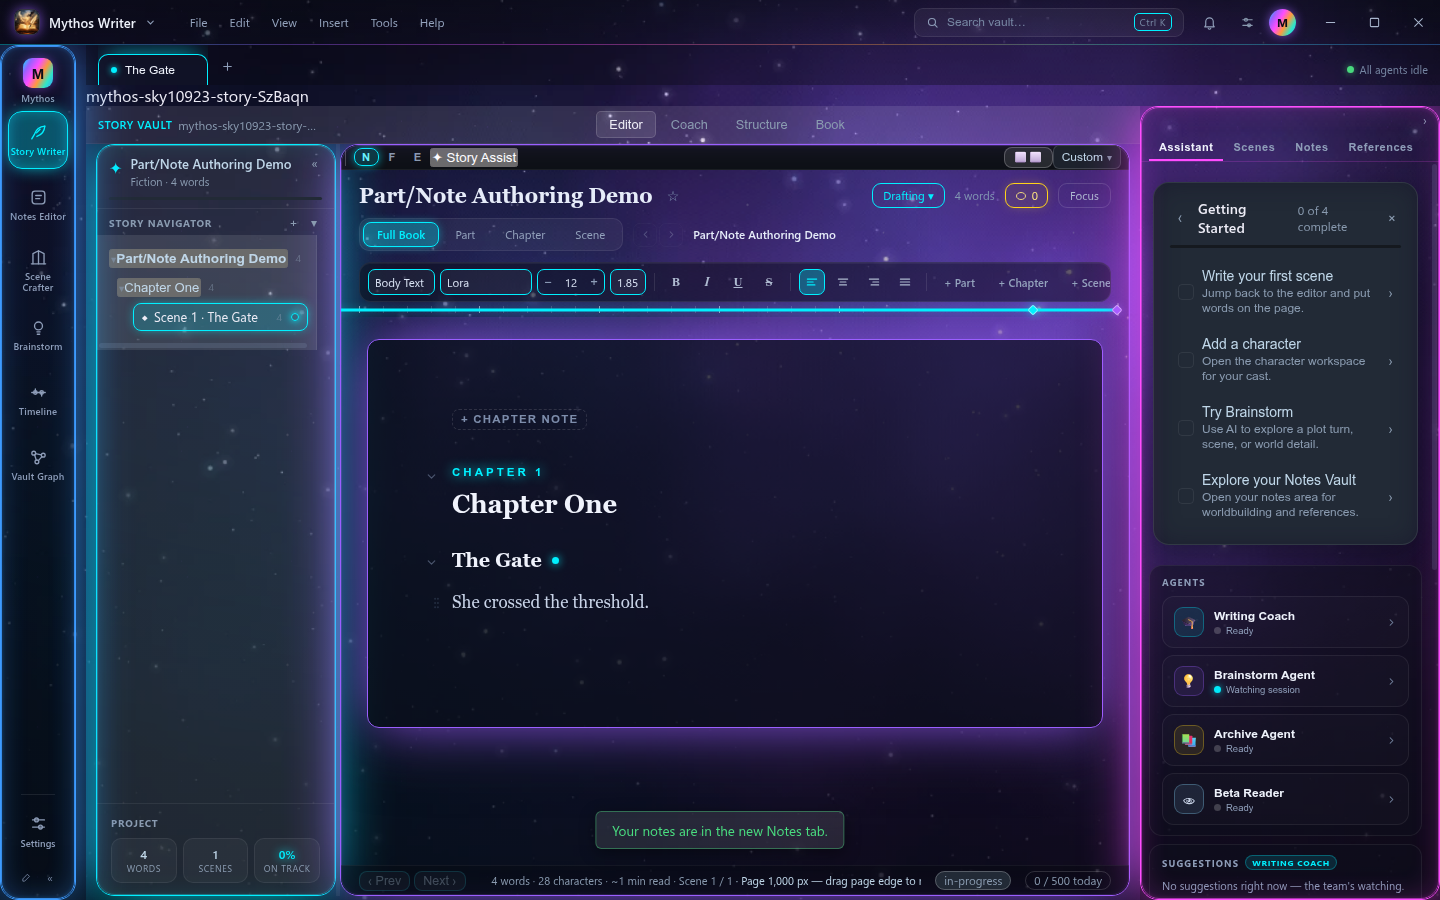
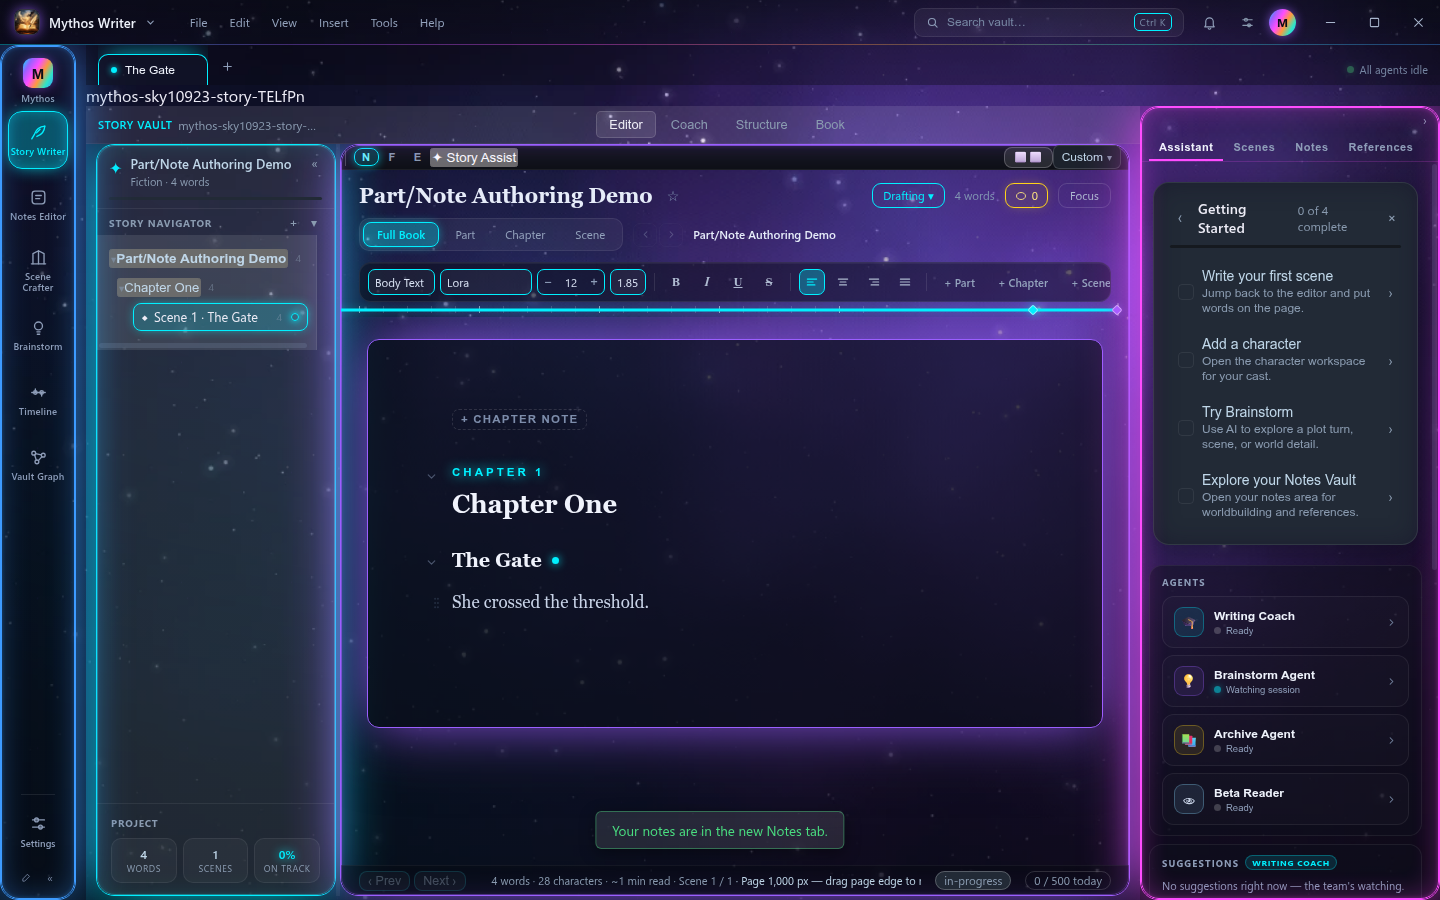
chore(SKY-10923): commit capture spec, drop debug-only screenshots
The capture spec used to generate the PR-evidence screenshots wasn't
checked in yet — commit it so the screenshots are reproducible, and
drop the two ad-hoc debug frames that aren't part of the evidence set.

Changed region(s): [[0.7812, 0.9956, 1.0, 1.0], [0.1875, 0.0933, 0.2188, 0.1244]]

diff --git a/e2e/capture-sky10923-part-note-authoring.spec.ts b/e2e/capture-sky10923-part-note-authoring.spec.ts
@@ -1,0 +1,122 @@
+/**
+ * capture-sky10923-part-note-authoring.spec.ts — SKY-10923 (not part of CI)
+ *
+ * One-off Playwright script to capture PR evidence screenshots of the M2
+ * Part/note authoring fix: the "+ Part" flow and the new note-slot editing
+ * UI (empty affordance -> editable field -> committed epigraph). Not
+ * registered in package.json/CI — run manually:
+ *   npx playwright test e2e/capture-sky10923-part-note-authoring.spec.ts --reporter=list
+ */
+import path from 'path';
+import os from 'os';
+import fs from 'fs';
+import { test, expect, _electron as electron, type ElectronApplication, type Page } from '@playwright/test';
+
+const MAIN_JS = path.resolve(__dirname, '../out/main/main.js');
+const OUT_DIR = path.resolve(__dirname, '../pr-screenshots/sky-10923-part-note-authoring');
+const STORY_ID = 'sky10923-story-0001';
+const CHAPTER_ID = 'sky10923-chapter-0001';
+const SCENE_ID = 'sky10923-scene-0001';
+const PART_ID = 'sky10923-part-0001';
+
+test('capture SKY-10923 Part/note authoring screenshots', async () => {
+  const userData = fs.mkdtempSync(path.join(os.tmpdir(), 'mythos-sky10923-shots-'));
+  const vaultDir = fs.mkdtempSync(path.join(os.tmpdir(), 'mythos-sky10923-story-'));
+  const notesVaultDir = fs.mkdtempSync(path.join(os.tmpdir(), 'mythos-sky10923-notes-'));
+
+  fs.writeFileSync(path.join(userData, 'app-settings.json'), JSON.stringify({
+    onboardingComplete: true, theme: 'dark',
+  }, null, 2));
+  fs.writeFileSync(path.join(userData, 'vault-settings.json'), JSON.stringify({
+    vaultRoot: vaultDir, notesVaultRoot: notesVaultDir,
+  }, null, 2));
+
+  const now = new Date().toISOString();
+  const sceneDir = path.join(vaultDir, 'stories', STORY_ID, 'chapters', CHAPTER_ID, 'scenes');
+  fs.mkdirSync(sceneDir, { recursive: true });
+  fs.writeFileSync(
+    path.join(sceneDir, `${SCENE_ID}.md`),
+    '---\ntitle: "The Gate"\n---\n\nShe crossed the threshold.\n',
+    'utf8'
+  );
+  const chapter = {
+    id: CHAPTER_ID, title: 'Chapter One', storyId: STORY_ID, order: 0,
+    createdAt: now, updatedAt: now,
+    scenes: [{
+      id: SCENE_ID, title: 'The Gate', path: `stories/${STORY_ID}/chapters/${CHAPTER_ID}/scenes/${SCENE_ID}.md`,
+      chapterId: CHAPTER_ID, storyId: STORY_ID, order: 0,
+      draftState: 'in-progress', createdAt: now, updatedAt: now, blocks: [],
+    }],
+  };
+  const manifest = {
+    version: 1,
+    stories: [{
+      id: STORY_ID, title: 'Part/Note Authoring Demo', path: `stories/${STORY_ID}`, order: 0,
+      createdAt: now, updatedAt: now,
+      chapters: [chapter],
+      parts: [{ id: PART_ID, title: '', order: 0, note: [], chapters: [chapter], createdAt: now, updatedAt: now }],
+    }],
+  };
+  fs.writeFileSync(path.join(vaultDir, 'manifest.json'), JSON.stringify(manifest, null, 2));
+  fs.mkdirSync(OUT_DIR, { recursive: true });
+
+  const extraArgs = (process.platform !== 'darwin' && !process.env.DISPLAY) ? ['--headless'] : [];
+  const app: ElectronApplication = await electron.launch({
+    args: [MAIN_JS, `--user-data-dir=${userData}`, '--no-sandbox', ...extraArgs],
+    timeout: 60_000,
+  });
+  const page: Page = await app.firstWindow();
+  await page.waitForLoadState('domcontentloaded');
+  await expect(page.locator('.app-menu-bar')).toBeVisible({ timeout: 12_000 });
+  await page.setViewportSize({ width: 1440, height: 900 });
+
+  // Boot lands on the "select a scene" empty state (no lastOpenedScene) —
+  // select the seeded scene, then step out to book zoom, the depth where
+  // the H1/H2/note-slot chrome (and the +Part / note affordances) render
+  // (scene zoom shows the block editor instead).
+  await expect(page.locator('nav[aria-label="Main navigation"]')).toBeVisible({ timeout: 8_000 });
+  await page.waitForTimeout(1000);
+  await page.getByText('Scene 1 · The Gate').click();
+  const bookZoomBtn = page.getByTestId('msv-zoom-book');
+  await bookZoomBtn.click({ timeout: 8_000 });
+  await expect(page.getByTestId(`msv-h2-${CHAPTER_ID}`)).toBeVisible({ timeout: 8_000 });
+
+  // 1. Empty chapter-note affordance.
+  const affordance = page.getByTestId(`msv-note-affordance-chapter-${CHAPTER_ID}`);
+  await expect(affordance).toBeVisible();
+  await affordance.scrollIntoViewIfNeeded();
+  await page.screenshot({ path: path.join(OUT_DIR, '1-chapter-note-affordance.png') });
+
+  // 2. Click it open, type text — the editable field, nothing persisted yet.
+  await affordance.click();
+  const field = page.getByTestId(`msv-note-edit-note-chapter-${CHAPTER_ID}`);
+  await expect(field).toBeVisible();
+  await field.click();
+  await page.keyboard.type('A storm was coming, and no one in the city noticed.');
+  await page.screenshot({ path: path.join(OUT_DIR, '2-chapter-note-editing.png') });
+
+  // 3. Commit (blur) — the epigraph renders, the affordance is gone.
+  await page.keyboard.press('Tab');
+  const epigraph = page.getByTestId(`msv-note-chapter-${CHAPTER_ID}`);
+  await expect(epigraph).toBeVisible();
+  await expect(epigraph).toContainText('A storm was coming');
+  await page.screenshot({ path: path.join(OUT_DIR, '3-chapter-note-committed.png') });
+
+  // 4. "+ Part" — titles the still-implicit first part, promoting the story
+  // out of the single-implicit-part shape (proof the H1/Part chrome + the
+  // pre-existing chapter both survive the reconcileParts self-heal).
+  await page.getByTestId('msv-add-part').click();
+  const promptInput = page.locator('.prompt-modal-input');
+  await expect(promptInput).toBeVisible({ timeout: 5_000 });
+  await promptInput.fill('Part One: The Awakening');
+  await promptInput.press('Enter');
+  await expect(page.getByTestId(`msv-h1-${PART_ID}`)).toBeVisible({ timeout: 5_000 });
+  await expect(page.getByTestId(`msv-h1-${PART_ID}`)).toContainText('Part One: The Awakening');
+  await expect(page.getByTestId(`msv-h2-${CHAPTER_ID}`)).toBeVisible();
+  await page.screenshot({ path: path.join(OUT_DIR, '4-part-titled-chapter-preserved.png') });
+
+  await app.close();
+  fs.rmSync(userData, { recursive: true, force: true });
+  fs.rmSync(vaultDir, { recursive: true, force: true });
+  fs.rmSync(notesVaultDir, { recursive: true, force: true });
+});
